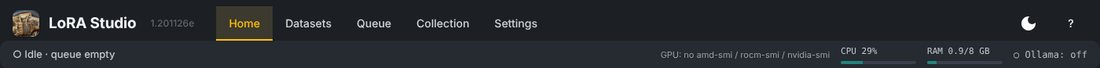
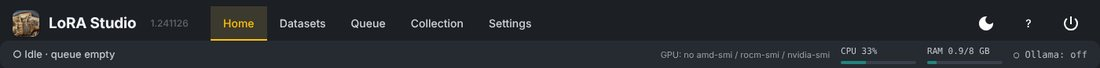
1.241126b: manual brought up to date
Top-right buttons and shutting down, starting from the applications menu, the Queue's left
menu, musubi stages and model-file checks, VAE and text encoder per type, Z-Image Turbo
strength, settings profiles and Compare settings, new Do/Don't lines and words, Browse renamed;
new Home and top-bar pictures.

Claude-Session: https://claude.ai/code/session_01QnQQkt687VuNWtpS6stAaw

Changed region(s): [[0.1545, 0.0882, 0.4945, 0.6176], [0.8655, 0.2353, 0.9891, 0.4706], [0.7727, 0.7059, 0.8036, 0.7941]]

diff --git a/version.py b/version.py
@@ -14,12 +14,12 @@ from __future__ import annotations
 import re
 from pathlib import Path
 
-__version__ = "1.241126"
-VERSION = "1.241126"
+__version__ = "1.241126b"
+VERSION = "1.241126b"
 # the version each part has in this release (written by the release script; a part not listed: VERSION)
 RELEASE: dict = {
     "lora_studio.py": "1.231126",
-    "version.py": "1.241126",
+    "version.py": "1.241126b",
     "program/lspaths.py": "1.201126e",
     "program/Training/sdgui.py": "1.221126",
     "program/Training/sd_script.py": "1.241126",
@@ -110,6 +110,7 @@ RELEASE: dict = {
 }
 # what changed in each update, newest first (shown in Settings › Version)
 CHANGES = [
+    ("1.241126b", "Manual brought up to date: the top-right buttons (⏻ shut down), starting from the applications menu, the Queue's left menu, musubi stages and the model-file checks, the right VAE and text encoder per type, Z-Image Turbo strength 1.3, settings profiles with Compare settings, new Do / Don't lines and words (text encoder, flow shift, training adapter, settings profile, int8 / fp8 / GGUF); Browse renamed Pictures and Status; new Home and top-bar pictures."),
     ("1.241126", "Settings profiles in step 9: export the training settings of a launch script (learning rates, rank, optimizer, scheduler, shift, steps, epochs …) as a .toml file to share, and import someone's under a name you choose. Original (LoRA Studio's own) always stays; the profile is chosen per dataset and LoRA type. Imported values are checked one by one; model files, memory settings, paths and tokens are never in a profile."),
     ("1.231126b", "A shut-down button (⏻) at the top right of every page: asks first; while a training run or the queue is running it says so and stops the run first (the save points written so far stay), then shuts LoRA Studio down. The same in Settings › Start and network."),
     ("1.231126", "Settings › Start and network: Show LoRA Studio in the applications menu (Linux desktops), with its icon. Clicking it opens the page; when LoRA Studio is not running it is started first, quietly (no terminal; output in userdata/logs/shortcut-start.log). Stop LoRA Studio on the same card. The shortcut follows when the folder is moved."),

diff --git a/program/manual/09_do-and-dont.md b/program/manual/09_do-and-dont.md
@@ -10,6 +10,14 @@
 - **Do** mark the version you like with ★ and copy it to your LoRA folder from Results (it brings its LoRA Manager data).
 - **Do** run *Check this machine* after installing, after a driver or ROCm update, and when training fails strangely.
 - **Do** make a backup (Settings › Backup) before big changes.
+- **Do** train on the **full** model files (bf16 / fp16). The small int8, fp8 and GGUF versions are for making
+  pictures in ComfyUI; musubi-tuner (Z-Image, Qwen-Image, FLUX.2) cannot train on them, and stage 1 says so.
+- **Do** train with the VAE you make pictures with, and the one the type is made for (Anima: `qwen_image_vae`,
+  Z-Image: the FLUX `ae`).
+- **Do** use a **Z-Image Turbo** LoRA at about strength **1.3**: it was trained with the training adapter, which is not
+  in the finished file, so it comes through weaker at 1.0. Its test pictures are made at 1.3.
+- **Do** keep a settings profile (step 9) for settings you found good, and share the `.toml` file instead of a
+  launch script.
 
 ## Don't
 
@@ -20,7 +28,8 @@
 - **Don't** delete `_originals/` or `_reserve/` by hand while working on a dataset: they are how steps 5 and 6 can be undone.
 - **Don't** edit a launch script while it is in the queue or training.
 - **Don't** give your LoRA Studio folder to someone else: it holds your settings and your Hugging Face token. Give
-  them LoraStudio.zip.
+  them LoraStudio.zip. (Launch scripts never hold the token: LoRA Studio passes it when a script runs.)
+- **Don't** use a Qwen3-**VL** text encoder (the one that also reads pictures) for Z-Image: it needs plain Qwen3 4B.
 
 ## Words used in LoRA Studio
 
@@ -34,3 +43,8 @@
 | **Network dim / alpha** | The size of the LoRA; higher holds more detail but copies the pictures sooner |
 | **Trigger word** | The first word of every caption; the word that calls the LoRA in a prompt |
 | **Save point** | The LoRA as it was after an epoch (`pipILLV2-000010.safetensors`) |
+| **Text encoder** | The part of the model that reads the prompt; trained lightly, it learns what the trigger word means |
+| **Flow shift** | For flow models (Z-Image, FLUX, Anima): where in the noise the training spends its time; higher = more on large shapes (face, build), lower = more on fine detail |
+| **Training adapter** | For Z-Image Turbo: a helper LoRA merged in while training, so the sped-up model can be trained; not part of the finished LoRA |
+| **Settings profile** | The training settings of one LoRA type in a `.toml` file, to share and import (step 9) |
+| **int8 / fp8 / GGUF** | Smaller versions of a model file for making pictures; train on the full (bf16) file |

diff --git a/program/manual/04_training.md b/program/manual/04_training.md
@@ -7,6 +7,8 @@ to open that run in its dataset's Results.
 
 ![The Queue: the launch scripts and the queue](img/run.jpg)
 
+- The left menu shows how many are running, waiting, done and failed, with *Start the queue* and *Stop after this
+  run* when they apply.
 - The queue **stops Ollama** first, to free the video memory (it is not started again by itself).
 - Each LoRA runs as its own program, so its memory is free again when it ends. When the next one uses another model
   (Anima → SDXL), the queue also asks ComfyUI to unload its models and waits until the video memory is empty; the
@@ -20,7 +22,8 @@ to open that run in its dataset's Results.
 
 ## The run
 
-While a run trains, the page shows its stages (caching, training, saving), the progress (step, epoch, time left),
+While a run trains, the page shows its stages (caching, training, saving; musubi types: *Check files*, *Prepare
+dataset*, *Cache latents*, *Cache text encoder*, *Train LoRA*, *Convert for ComfyUI*), the progress (step, epoch, time left),
 the **loss** curve and the save points written so far, the next item in the queue, and the **Run log** (folded).
 **Stop after this run** lets the running LoRA finish and then stops the queue; **Stop now** stops it at once (a
 saved state, if the script writes them, lets you resume later). The top bar shows the same on every page.
@@ -42,6 +45,8 @@ wrong, what it means and what to do, in the queue, the top bar and on the run's 
 | **Out of normal memory (RAM)** | close programs, 0–1 data loader workers, cache latents to disk |
 | **The loss became NaN** | a lower learning rate, bf16 instead of fp16 |
 | **A model file is missing or broken** | check Settings › Model files, download a broken file again |
+| **A model file does not fit** (musubi types: Z-Image, Qwen-Image, FLUX.2) | stage 1 *Check files* names the file: a ComfyUI int8 / fp8 file (`…_int8_convrot`, `…_fp8_mixed`) cannot be trained on, use the full bf16 file; a Qwen3-VL text encoder cannot be used for Z-Image, use `qwen_3_4b.safetensors` |
+| **Size mismatch / missing keys while loading the VAE** | the wrong VAE for the type: Anima and Qwen-Image need `qwen_image_vae.safetensors` (a similar-looking `qwen_image_2.1_vae` is a different VAE); Z-Image the FLUX `ae.safetensors` |
 | **The model does not fit this LoRA type** | pick the right base model for the type |
 | **No pictures to train on** | the repeat folder `<N>_<dataset name>` must hold the pictures |
 | **A picture is broken** | Datasets › 3 Usable scan finds it |

diff --git a/program/manual/06_collection.md b/program/manual/06_collection.md
@@ -4,7 +4,7 @@ The Collection's pages are in the left menu: **Pictures** and **Status** (the tw
 [Results](#results)) and **Maintenance**; an open **LoRA page** adds its parts (Overview, Pictures, Training, Edit)
 under *LoRA*. The search field and the filters (base model, order, preview, favorites, status) are in the menu too.
 
-## Browse
+## Pictures and Status
 
 One tile per dataset with the picture of its newest (or ★ best) LoRA, and a label per LoRA type (✓ = Completed). With
 *Colour the Collection cards by purpose* on (Settings › Look and base models), each card has a border and a label in
@@ -24,7 +24,7 @@ that LoRA page directly.
 
 ## Deleting a LoRA
 
-*Delete…* (Browse › Select, or on the LoRA page) opens a list of everything that belongs to each LoRA, with the size.
+*Delete…* (Pictures › Select, or on the LoRA page) opens a list of everything that belongs to each LoRA, with the size.
 Tick what goes:
 
 - the **versions** (all are ticked; untick one to keep it);
@@ -62,7 +62,7 @@ Click a tile for its **LoRA page**; the *Version* menu at the top switches betwe
   how the steps add up, the network and optimizer settings, and the result (training time, final loss, the save point
   to try first). They are read from the LoRA file, its launch script and its logs, once per version; *Read the
   training again* after you changed the script or the log. *Train a new version…* opens the dataset's Train part.
-- **Edit**: display name, character (groups it in Browse), version (shown in ComfyUI's LoRA Manager), clip skip,
+- **Edit**: display name, character (groups it in the Collection), version (shown in ComfyUI's LoRA Manager), clip skip,
   **Your rating** (4-5 good, 1-2 weak, for Collection › Insights; the same rating as on the run's page in Results), trigger words, description, notes, strength and CLIP strength,
   the preview's NSFW level, favorite, and a flag with its reason. Saved in LoRA Manager's format in the dataset's
   `LoraManager/` folder (a `.bak` is kept).

diff --git a/program/manual/01_welcome.md b/program/manual/01_welcome.md
@@ -32,9 +32,24 @@ icons (hover one for its name; the search icon folds it out again); the browser 
 
 It is the same on every page: what is training now (step, loss, time left), how busy the GPU, CPU and RAM are (AMD:
 from `amd-smi` with ROCm 10 and newer, `rocm-smi` before; NVIDIA: `nvidia-smi`), and
-which Ollama model sits in video memory (Settings › AI helpers starts and stops it). The moon button at the top right
-switches between dark and light. When a run ends it says so, with the save point to try first, or what went
-wrong. Click it to go to the queue, or to the finished run in its dataset's Results.
+which Ollama model sits in video memory (Settings › AI helpers starts and stops it). When a run ends it says so, with
+the save point to try first, or what went wrong. Click it to go to the queue, or to the finished run in its dataset's
+Results.
+
+Three buttons sit at the top right of every page:
+
+- **Moon**: dark or light.
+- **?**: this manual, at the chapter of the page you are on.
+- **⏻ Shut down**: stops LoRA Studio after asking. While a training run or the queue is running, it says so and stops
+  the run first, like *Stop now* (the save points written so far stay). Start it again from the applications menu
+  (Settings › Start and network › *Shortcut*) or with `./start.sh`.
+
+## Starting LoRA Studio
+
+- **From the applications menu** (Linux): tick *Show LoRA Studio in the applications menu* once in Settings › Start and
+  network. The icon opens the page; when LoRA Studio is not running it starts it first, quietly, without a terminal.
+- **From a terminal**: `cd ~/LoraStudio && ./start.sh`.
+- **On the phone**: the phone page `/m` shows what is training (Settings › Start and network).
 
 ## Just trained
 

diff --git a/program/manual/02_settings.md b/program/manual/02_settings.md
@@ -110,6 +110,12 @@ scripts use them. *Refresh file lists* reads the folders again; *training_settin
 > **Don't** pick a model of another family (an SD 1.5 checkpoint for SDXL, a VAE as the checkpoint): the run fails
 > with "The model does not fit this LoRA type".
 
+> **Don't** pick ComfyUI's small int8 / fp8 / GGUF files (`…_int8_convrot`, `…_fp8_mixed`, `.gguf`) for training:
+> they are for making pictures. musubi-tuner types (Z-Image, Qwen-Image, FLUX.2) stop at stage 1 *Check files* with
+> the file's name; use the full bf16 file (musubi makes it smaller in memory itself with fp8, see Speed test). Z-Image
+> needs plain Qwen3 4B as its text encoder (`qwen_3_4b.safetensors`), not Qwen3-VL. A VAE with a similar name can
+> be another VAE: Anima and Qwen-Image train with `qwen_image_vae.safetensors`, Z-Image with the FLUX `ae.safetensors`.
+
 ## Trainers and GPU
 
 ![Settings › Trainers and GPU](img/set_trainers.jpg)

diff --git a/program/manual/10_install.md b/program/manual/10_install.md
@@ -40,6 +40,10 @@ unzip LoraStudio.zip && cd LoraStudio
 cd ~/LoraStudio && ./start.sh
 ```
 
+After the first start, Settings › Start and network › *Show LoRA Studio in the applications menu* puts it with its icon
+in your applications menu (pin it to the dock with a right-click); it starts LoRA Studio quietly when needed and opens
+the page. The **⏻** button at the top right shuts it down.
+
 With a trainer to install, it installs PyTorch for your graphics card: **AMD Radeon** with ROCm, **NVIDIA** with
 CUDA. For the GPU values in the top bar it looks for **amd-smi** (ROCm 10 and newer, where `rocm-smi` is gone) or
 `rocm-smi` (older ROCm); without either, training still works (Fedora: `sudo dnf install amdsmi`, Ubuntu: `sudo apt

diff --git a/program/manual/05_results.md b/program/manual/05_results.md
@@ -72,6 +72,9 @@ launch scripts of that type then use it (with a comment line saying so). Untick 
 
 > **Do** compare on two or three different datasets before you tick a winner: one dataset can fool you.
 
+A **settings profile** chosen in step 9 wins over the comparison winners for that dataset. To share a winner, make a
+launch script with it and use *Export…* in step 9 (see [step 9](#datasets)).
+
 ## Insights (Collection › Insights)
 
 ![Collection › Insights: the datasets behind your good and weak LoRAs](img/insights.jpg)
